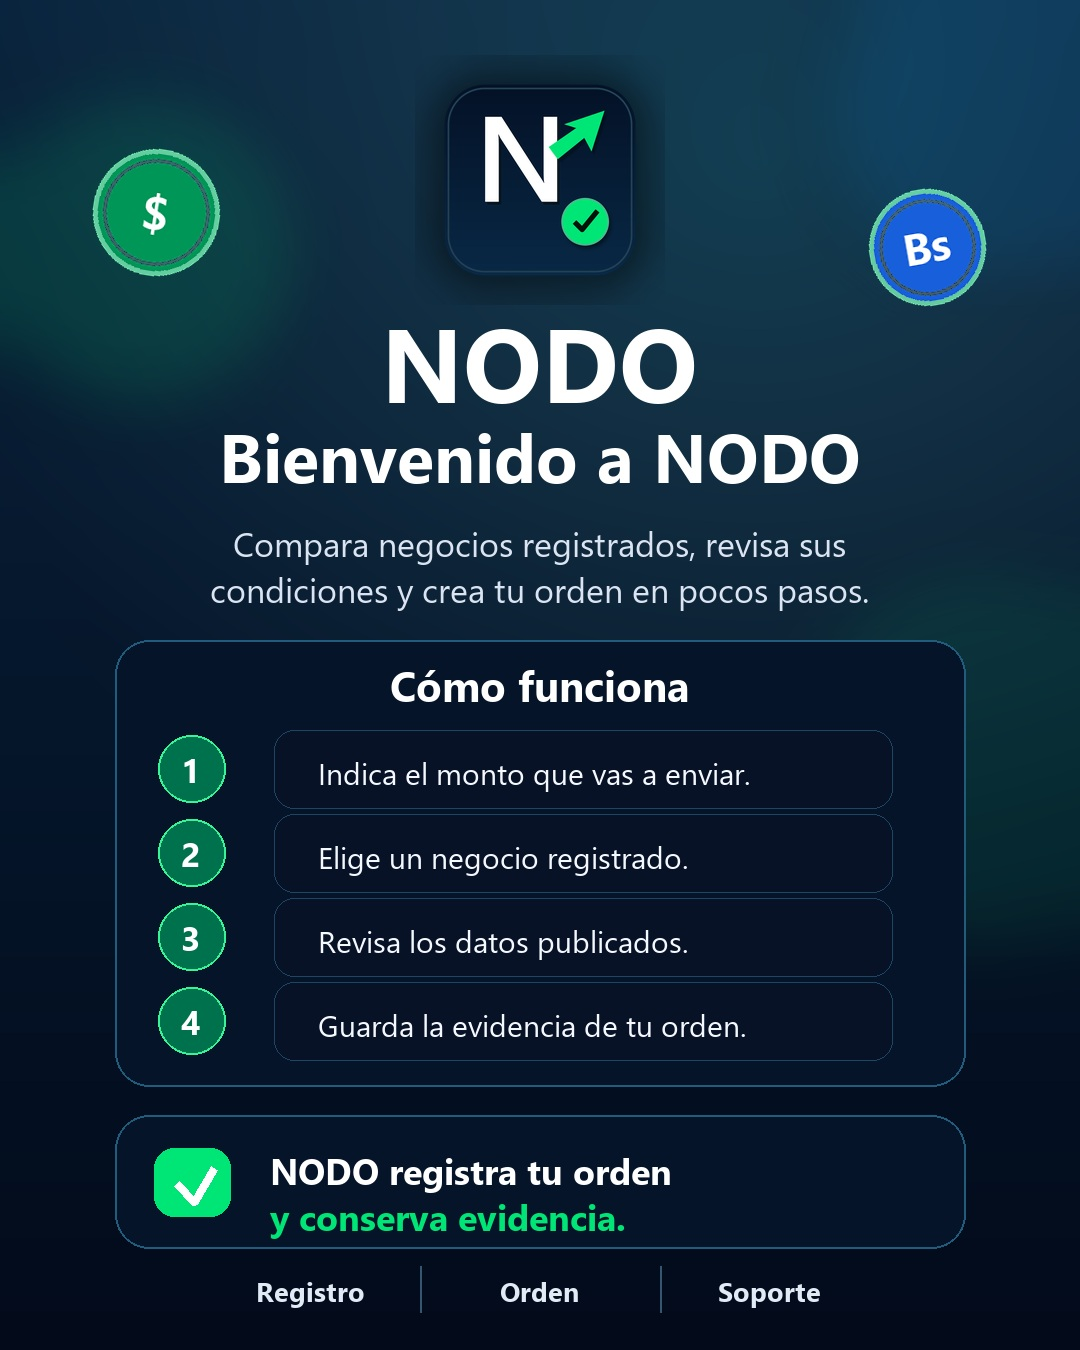
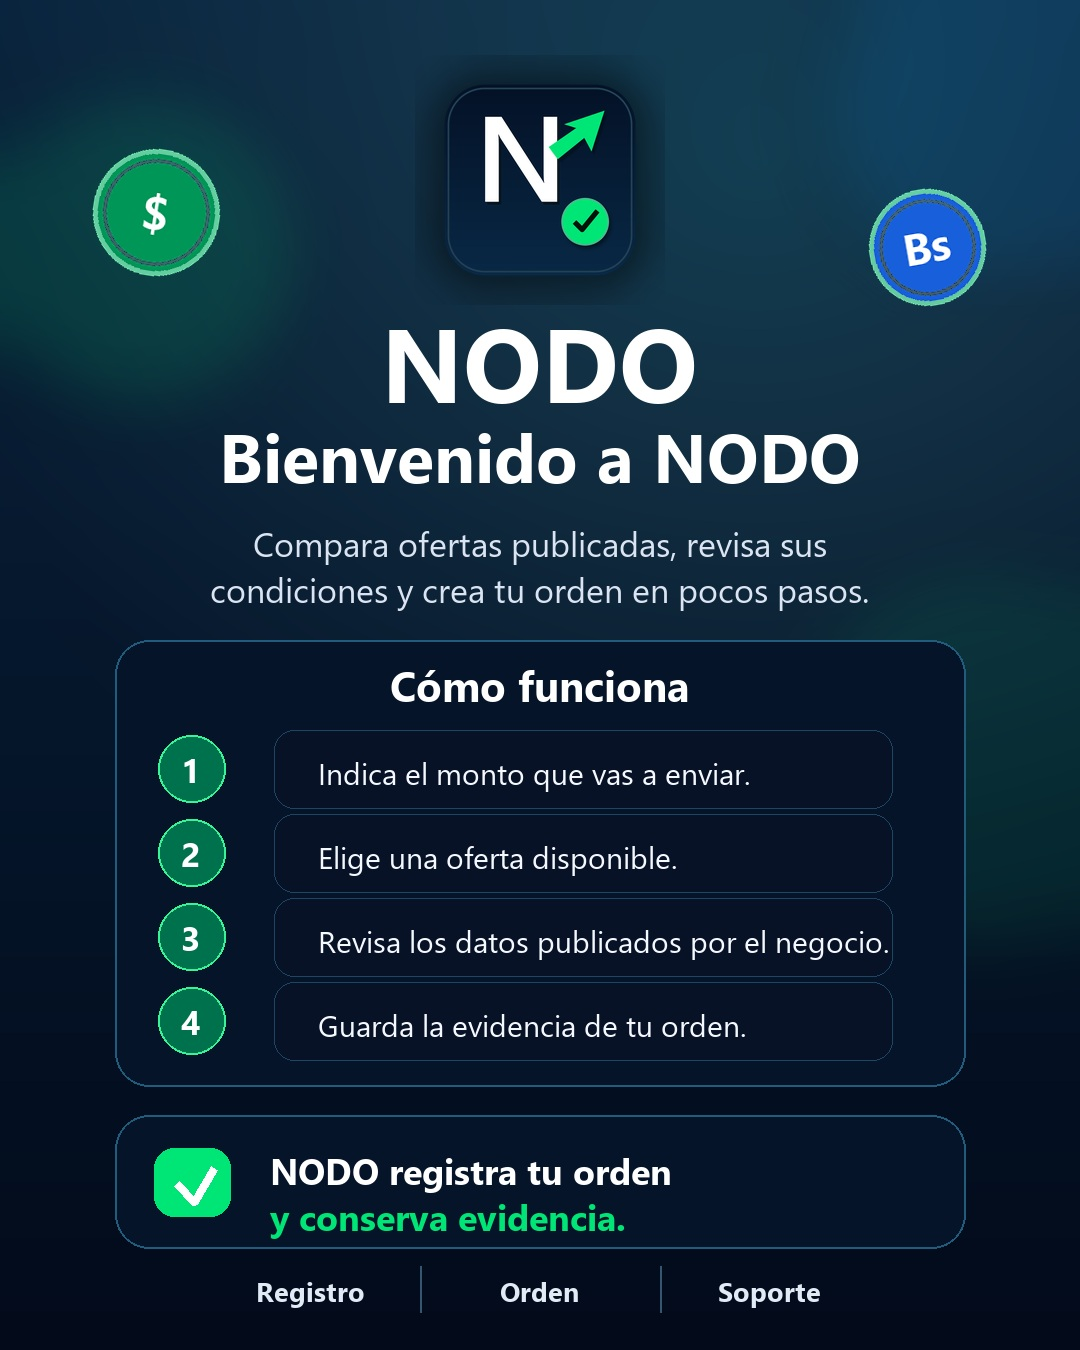
fix(client): keep marketplace copy centered

diff --git a/apps/web/src/screens/client/ClientMarketplaceScreens.tsx b/apps/web/src/screens/client/ClientMarketplaceScreens.tsx
@@ -60,7 +60,7 @@ export function ClientMarketplaceScreens({ model }: { model: RemitterScreensMode
       {view === "marketplace-search" ? (
         <div className="marketplace-home">
           <div className="exchange-card">
-            <Text className="exchange-card__eyebrow">Directorio de negocios registrados</Text>
+            <Text className="exchange-card__eyebrow">Directorio de ofertas</Text>
             <Title level="2" className="exchange-card__title">¿Cuánto vas a enviar?</Title>
             <div className={searchCurrency.amountSymbol ? "amount-input" : "amount-input amount-input--without-symbol"}>
               {searchCurrency.amountSymbol ? <span aria-hidden="true">{searchCurrency.amountSymbol}</span> : null}
@@ -108,24 +108,24 @@ export function ClientMarketplaceScreens({ model }: { model: RemitterScreensMode
               <Text>Entrega publicada en Venezuela por Pago Movil. Coordina los detalles directamente con el negocio.</Text>
             </div>
             <Button mode="filled" stretched disabled={searchingMarketplace} onClick={() => void searchAds()}>
-              {searchingMarketplace ? "Buscando..." : "Buscar negocios"}
+              {searchingMarketplace ? "Buscando..." : "Buscar ofertas"}
             </Button>
           </div>
           {notice ? <Text className="auth-entry__session-meta">{notice}</Text> : null}
 
           <div className="marketplace-toolbar">
-            <Title level="3" className="business-shell__title">Negocios que publican en NODO</Title>
+            <Title level="3" className="business-shell__title">Ofertas publicadas</Title>
             <Text className="auth-entry__session-meta">{searchCurrency.offerLabel} - ordenados por mejor tasa</Text>
           </div>
 
           <MarketplaceBusinessList
-            emptyMessage="Ingresa un monto para ver negocios que publican en NODO."
+            emptyMessage="Ingresa un monto para ver ofertas disponibles."
             model={model}
           />
 
           <div className="trust-banner">
             <span className="status-dot" aria-hidden="true" />
-            <Text>NODO revisa datos del negocio antes de publicarlo. Compara tasa, limites y disponibilidad antes de elegir.</Text>
+            <Text>Compara tasa, limites y disponibilidad. Los datos son publicados por cada negocio.</Text>
           </div>
         </div>
       ) : null}
@@ -135,13 +135,13 @@ export function ClientMarketplaceScreens({ model }: { model: RemitterScreensMode
           <div className="marketplace-toolbar">
             <div>
               <Text className="exchange-card__eyebrow">Directorio</Text>
-              <Title level="3" className="business-shell__title">Negocios activos</Title>
+              <Title level="3" className="business-shell__title">Ofertas disponibles</Title>
             </div>
             <Text className="auth-entry__session-meta">{searchCurrency.offerLabel} - ordenados por mejor tasa</Text>
           </div>
 
           <MarketplaceBusinessList
-            emptyMessage={`No hay negocios ${searchCurrency.offerLabel} activos disponibles en este momento.`}
+            emptyMessage={`No hay ofertas ${searchCurrency.offerLabel} disponibles en este momento.`}
             model={model}
           />
 

diff --git a/apps/web/src/app/globals.css b/apps/web/src/app/globals.css
@@ -118,6 +118,19 @@ textarea {
   align-content: start;
   margin: 0 auto;
   gap: 18px;
+  overflow-x: clip;
+}
+
+.business-shell > *,
+.marketplace-home,
+.marketplace-home > *,
+.exchange-card,
+.marketplace-toolbar,
+.receiver-note,
+.trusted-empty,
+.trust-banner {
+  max-width: 100%;
+  min-width: 0;
 }
 
 .app-shell:has(.business-shell--keyboard-active) {
@@ -166,9 +179,12 @@ textarea {
 }
 
 .business-shell__title {
+  max-width: 100%;
   margin: 0;
   font-size: 22px;
   line-height: 1.18;
+  overflow-wrap: anywhere;
+  white-space: normal;
 }
 
 .business-shell__tabs {
@@ -1893,6 +1909,7 @@ div.ad-row {
 .marketplace-home {
   display: grid;
   gap: 18px;
+  overflow-x: clip;
 }
 
 .welcome-screen,
@@ -1940,6 +1957,7 @@ div.ad-row {
 .exchange-card {
   display: grid;
   gap: 14px;
+  min-width: 0;
   padding: 18px;
   border: 1px solid rgb(148 163 184 / 24%);
   border-radius: 8px;
@@ -1957,8 +1975,11 @@ div.ad-row {
 }
 
 .exchange-card__title {
+  max-width: 100%;
   margin: 0;
   color: var(--nodo-text);
+  overflow-wrap: anywhere;
+  white-space: normal;
 }
 
 .amount-input {
@@ -2059,9 +2080,11 @@ div.ad-row {
 .trust-banner [class*="tgui"],
 .trusted-empty [class*="tgui"] {
   min-width: 0;
+  max-width: 100%;
   width: 100%;
   color: var(--nodo-muted);
   line-height: 1.4;
+  overflow-wrap: anywhere;
   white-space: normal;
 }
 

diff --git a/apps/web/src/hooks/workspace/useClientMarketplaceModel.ts b/apps/web/src/hooks/workspace/useClientMarketplaceModel.ts
@@ -181,7 +181,7 @@ export function useClientMarketplaceModel(state: ClientWorkspaceState & { reques
       }
       setSearchResults(data.items);
       setSelectedAd(null);
-      setNotice(data.items.length ? "" : "No hay negocios activos disponibles en este momento.");
+      setNotice(data.items.length ? "" : "No hay ofertas disponibles en este momento.");
       recordActionCompleted("client_marketplace_list", "marketplace-list", startedAt);
     } catch (error) {
       if (marketplaceRequestIdRef.current !== requestId) {

diff --git a/apps/api/tests/test_client_marketplace_copy_static.py b/apps/api/tests/test_client_marketplace_copy_static.py
@@ -26,6 +26,7 @@ def test_client_marketplace_copy_describes_registration_without_endorsement() ->
         "Busca negocios verificados",
         "negocios verificados por NODO",
         "Negocio verificado",
+        "negocio verificado",
         "Cambio verificado",
         "Paga directo al negocio verificado",
         "comparar con mas confianza",
@@ -46,14 +47,20 @@ def test_client_marketplace_copy_describes_registration_without_endorsement() ->
         "dinero protegido",
         "fondos garantizados",
         "garantizamos transacciones",
+        "Elige un negocio registrado.",
+        "Negocios que publican en NODO",
+        "Ingresa un monto para ver negocios que publican en NODO.",
+        "NODO revisa datos del negocio antes de publicarlo.",
     ):
         assert forbidden not in runtime_copy
 
     for expected in (
-        "Directorio de negocios registrados",
+        "Directorio de ofertas",
         "¿Cuánto vas a enviar?",
-        "Ingresa un monto para ver negocios que publican en NODO.",
-        "NODO revisa datos del negocio antes de publicarlo.",
+        "Ofertas publicadas",
+        "Ingresa un monto para ver ofertas disponibles.",
+        "Compara tasa, limites y disponibilidad.",
+        "Los datos son publicados por cada negocio.",
         "Perfil registrado",
         "Paga solo a los datos mostrados en esta orden.",
         "NODO conecta usuarios con negocios registrados.",
@@ -64,10 +71,10 @@ def test_client_marketplace_copy_describes_registration_without_endorsement() ->
         "Escribe tu numero completo",
         "Puede ser de Venezuela, Estados Unidos u otro pais.",
         "Escribe el numero completo",
-        "Compara negocios registrados, revisa sus condiciones y crea tu orden en pocos pasos.",
+        "Compara ofertas publicadas, revisa sus condiciones y crea tu orden en pocos pasos.",
         "Indica el monto que vas a enviar.",
-        "Elige un negocio registrado.",
-        "Revisa los datos publicados.",
+        "Elige una oferta disponible.",
+        "Revisa los datos publicados por el negocio.",
         "Guarda la evidencia de tu orden.",
         "NODO registra tu orden",
         "y conserva evidencia.",
@@ -132,6 +139,7 @@ def test_telegram_welcome_and_client_phone_copy_are_country_neutral() -> None:
         "Seguro",
         "R\u00e1pido",
         "Confiable",
+        "Elige un negocio registrado.",
     ):
         assert forbidden not in combined
 
@@ -139,13 +147,28 @@ def test_telegram_welcome_and_client_phone_copy_are_country_neutral() -> None:
         "Escribe tu numero completo",
         "Puede ser de Venezuela, Estados Unidos u otro pais.",
         "Escribe el numero completo",
-        "Compara negocios registrados, revisa sus condiciones y crea tu orden en pocos pasos.",
+        "Compara ofertas publicadas, revisa sus condiciones y crea tu orden en pocos pasos.",
         "Indica el monto que vas a enviar.",
-        "Elige un negocio registrado.",
-        "Revisa los datos publicados.",
+        "Elige una oferta disponible.",
+        "Revisa los datos publicados por el negocio.",
         "Guarda la evidencia de tu orden.",
         "NODO registra tu orden",
         "y conserva evidencia.",
         "Abre NODO desde el menu de Telegram para comenzar.",
     ):
         assert expected in combined
+
+
+def test_client_marketplace_mobile_copy_cannot_force_horizontal_overflow() -> None:
+    marketplace = (ROOT / "apps" / "web" / "src" / "screens" / "client" / "ClientMarketplaceScreens.tsx").read_text(encoding="utf-8")
+    css = (ROOT / "apps" / "web" / "src" / "app" / "globals.css").read_text(encoding="utf-8")
+
+    assert "Ofertas publicadas" in marketplace
+    assert "Negocios que publican en NODO" not in marketplace
+    assert ".business-shell" in css
+    assert "overflow-x: clip;" in css
+    assert ".marketplace-home" in css
+    assert ".business-shell__title" in css
+    assert ".exchange-card__title" in css
+    assert "overflow-wrap: anywhere;" in css
+    assert "min-width: 0;" in css

diff --git a/scripts/build_telegram_welcome_image.py b/scripts/build_telegram_welcome_image.py
@@ -141,7 +141,7 @@ def main() -> None:
 
     add_wrapped_text(
         draw,
-        "Compara negocios registrados, revisa sus condiciones y crea tu orden en pocos pasos.",
+        "Compara ofertas publicadas, revisa sus condiciones y crea tu orden en pocos pasos.",
         (175, 520, 905, 620),
         font(34),
         (218, 228, 242),
@@ -155,8 +155,8 @@ def main() -> None:
 
     steps = [
         ("1", "Indica el monto que vas a enviar."),
-        ("2", "Elige un negocio registrado."),
-        ("3", "Revisa los datos publicados."),
+        ("2", "Elige una oferta disponible."),
+        ("3", "Revisa los datos publicados por el negocio."),
         ("4", "Guarda la evidencia de tu orden."),
     ]
     y = 730

diff --git a/apps/api/app/core/config.py b/apps/api/app/core/config.py
@@ -276,7 +276,7 @@ def load_settings(environ: Mapping[str, str] | None = None) -> Settings:
         telegram_web_app_url=source.get("TELEGRAM_WEB_APP_URL", "https://nodo-staging.pages.dev").rstrip("/"),
         telegram_welcome_image_url=source.get(
             "TELEGRAM_WELCOME_IMAGE_URL",
-            "https://main.nodo-staging.pages.dev/telegram-welcome.jpg?v=20260818120000",
+            "https://nodo-staging.pages.dev/telegram-welcome.jpg?v=20260818143000",
         ),
         cors_origins=_split_csv(source.get("API_CORS_ORIGINS", "http://localhost:3000")),
     )
